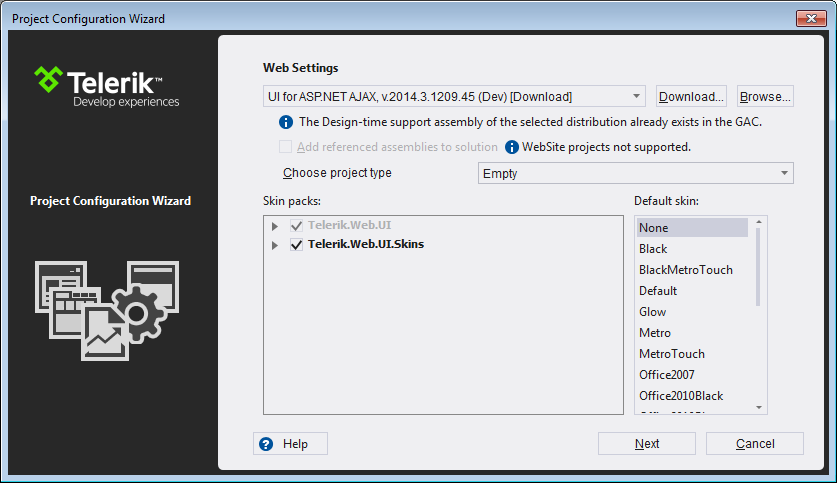
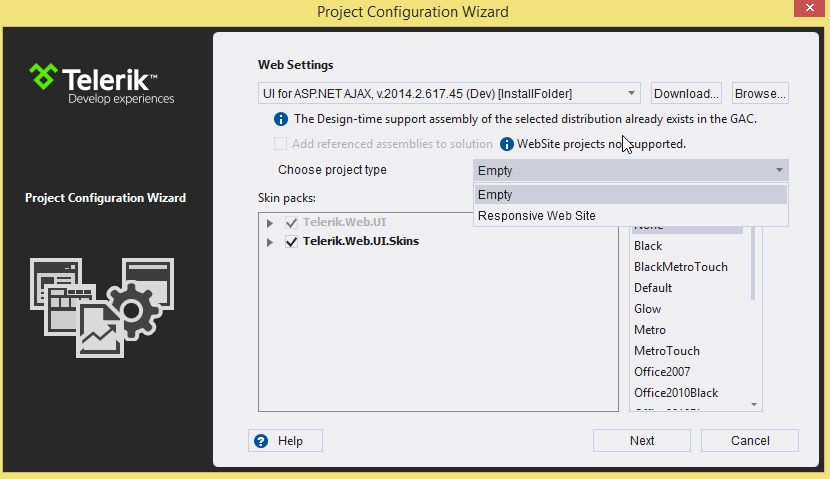
added information for responsive web site template

Changed region(s): [[0.0, 0.0, 1.0, 1.0], [0.3012, 0.8476, 0.753, 0.8768]]

diff --git a/general-information/integration-with-visual-studio/visual-studio-extensions/creation-and-configuration-wizard.md b/general-information/integration-with-visual-studio/visual-studio-extensions/creation-and-configuration-wizard.md
@@ -12,7 +12,6 @@ position: 1
 
 
 
-## 
 
 The Project management functionality of the Visual Studio Extensions handles project assembly reference updates, web.config entry management and updates of the supporting resources.
 
@@ -32,7 +31,7 @@ The Project Configuration Wizard’s first page lets you define settings related
 
 * **Telerik Assemblies** - Select the Telerik controls distribution to be used. You can choose from the detected assemblies (from an installation folder or from the GAC), or you can browse to an assemblies located somewhere on your hard drive (e.g. when you've downloaded a zip file from the [Latest Internal Builds](http://www.telerik.com/blogs/download-latest-internal-builds) page).
 
-* **Project type** – Select the Telerik project type. (option is only available in **New Project Wizard**).
+* **Project type** – Select the Telerik project type (the option is only available in the **New Project Wizard**). The Empty site only references the assemblies and has the [mandatory additions to the web.config]({%slug general-information/web-config-settings-overview%}#mandatory-additions-to-the-webconfig). The *Responsive Web Site* is a template that uses the [RadPageLayout]({%slug pagelayout/overview%}) control to provide a basic template for a responsive web page.
 
 * **Skin packs** - Choose the skin packs to be added to the project. Check the content of each skin pack (a skin pack is an assembly that contains one or more skins) and select the one(s) you want to be included in the project. If you want to add or remove a skin pack later, you can use the Configure Project wizard.
 
